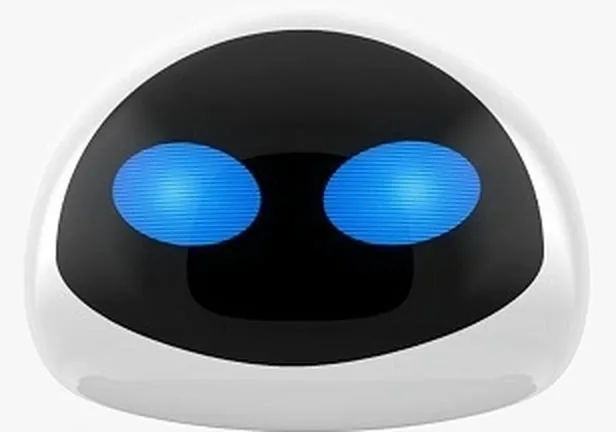
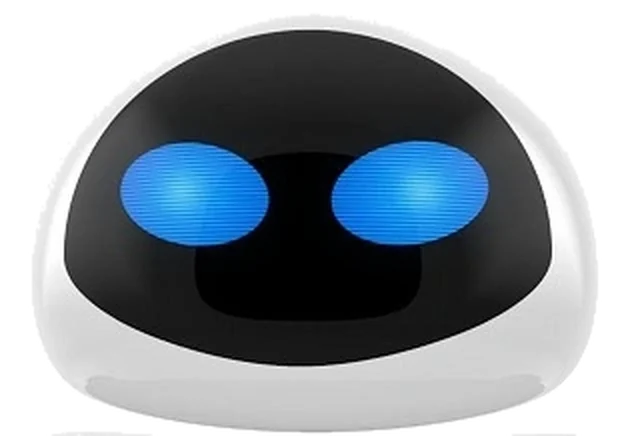
Довести /rca/agent/: лицо агента, стекло, плавный переход в матрицу
У картинки агента вырезан фон заливкой от краёв, теперь это webp с
альфой без белого прямоугольника. На первом экране она стоит справа
подложкой во всю высоту, на мобильном — стеклянным кружком.

Переход из золота в зелень растянут: фон страницы ниже 60 процентов
держит один цвет, а матрица начинается с него же и уходит в тёмное
за 520 пикселей, так что шва нет. Код проявляется вместе с фоном.

Карточки, чат, поля, форма и панель с агентом переведены на жидкое
стекло: полупрозрачный фон, размытие подложки, светлая грань.

Мелкие шрифты подняты: подписи 13 на 15, надзаголовки 13 на 14,
согласия 13 на 15, реплики в чате 15 на 16.

diff --git a/rca/agent/index.html b/rca/agent/index.html
@@ -36,6 +36,15 @@
   --grn-fg:#C6DCCD;
   --grn-line:rgba(143,207,166,.25);
   --gold:#F2E1A6;
+  --glass:rgba(255,255,255,.55);
+  --glass-2:rgba(255,255,255,.34);
+  --glass-br:rgba(255,255,255,.75);
+  --glass-sh:0 10px 30px rgba(120,95,30,.07);
+  --glass-in:inset 0 1px 0 rgba(255,255,255,.8);
+  --blur:blur(16px) saturate(165%);
+  --glassd:rgba(255,255,255,.07);
+  --glassd-br:rgba(255,255,255,.15);
+  --glassd-in:inset 0 1px 0 rgba(255,255,255,.12);
   --maxw:1120px;
   --pad:16px;
   --gap:56px;
@@ -50,7 +59,7 @@ body{
   color:var(--fg);font-family:var(--text);font-size:16px;line-height:1.55;
   overflow-x:hidden;-webkit-font-smoothing:antialiased;
   background-color:var(--bg);
-  background-image:linear-gradient(180deg,#FFFCF0 0%,#FAF1D6 10%,#FDF8EB 26%,#FBFAF3 48%,#F2F8EE 70%,#DFEEDD 88%,#CBE3CE 100%);
+  background-image:linear-gradient(180deg,#FFFCF0 0%,#FAF1D6 12%,#FDF8EB 30%,#F9FAF3 46%,#F6F8F2 60%,#F6F8F2 100%);
   background-repeat:no-repeat;
   background-size:100% 100%;
 }
@@ -62,19 +71,19 @@ a{color:inherit}
 h1,h2,.ttl,.btn,.num,.over{font-family:var(--disp);font-weight:400}
 h1{font-size:clamp(26px,7.6vw,48px);line-height:1.14;letter-spacing:-.01em}
 h2{font-size:clamp(22px,5.5vw,30px);line-height:1.2;margin-top:10px;max-width:20ch}
-.ttl{font-weight:500;font-size:18px;line-height:1.3}
-.over{font-size:13px;line-height:1.4;color:var(--over);letter-spacing:.02em}
+.ttl{font-weight:500;font-size:19px;line-height:1.3}
+.over{font-size:14px;line-height:1.4;color:var(--over);letter-spacing:.02em}
 p{max-width:68ch}
-.lead{font-size:clamp(16px,4.2vw,18px);line-height:1.45;color:var(--mut);margin-top:12px}
+.lead{font-size:clamp(17px,4.4vw,19px);line-height:1.45;color:var(--mut);margin-top:12px}
 .txt{margin-top:10px;color:var(--mut)}
-.small{font-size:13px;line-height:1.4;color:var(--mut)}
+.small{font-size:15px;line-height:1.45;color:var(--mut)}
 /* первый экран */
 .hero{position:relative;overflow:hidden;padding:20px 0 0}
 .blob{position:absolute;z-index:0;top:-70px;right:-120px;width:340px;height:340px;pointer-events:none}
 .hero .wrap{position:relative;z-index:1}
 .hero .btn{margin-top:20px}
 /* лицо агента: на мобильном кружок, на десктопе подложка */
-.heroface{display:block;width:76px;height:76px;border-radius:50%;object-fit:cover;object-position:50% 42%;background:#FFFDF3;margin-bottom:14px}
+.heroface{display:block;width:96px;height:96px;padding:12px;border-radius:50%;object-fit:contain;background:var(--glass);border:1px solid var(--glass-br);backdrop-filter:var(--blur);-webkit-backdrop-filter:var(--blur);box-shadow:var(--glass-sh),var(--glass-in);margin-bottom:14px}
 /* кнопки и поля */
 .btn{display:inline-flex;align-items:center;justify-content:center;min-height:52px;padding:0 28px;border:0;border-radius:50px;background:var(--acc);color:#FFFFFF;font-size:16px;font-weight:500;line-height:1.2;text-align:center;text-decoration:none;cursor:pointer;transition:background-color .15s}
 .btn:hover,.btn:focus-visible{background:var(--acc-2)}
@@ -83,28 +92,28 @@ p{max-width:68ch}
 .btn--gold{background:var(--gold);color:#12301F}
 .btn--gold:hover,.btn--gold:focus-visible{background:#FFEFBE}
 .btn--gold[disabled]{background:#3C5A4A;color:#8FA898}
-.fld{width:100%;height:52px;padding:0 20px;border:1px solid var(--line);border-radius:50px;background:#FFFFFF;color:var(--fg);font-family:var(--text);font-size:16px;line-height:1.4}
+.fld{width:100%;height:54px;padding:0 20px;border:1px solid var(--glass-br);border-radius:50px;background:rgba(255,255,255,.82);backdrop-filter:var(--blur);-webkit-backdrop-filter:var(--blur);color:var(--fg);font-family:var(--text);font-size:16px;line-height:1.4}
 .fld::placeholder{color:var(--hint)}
 .fld:focus{border-color:var(--acc);outline:2px solid var(--acc-2);outline-offset:2px}
 .fld.bad{border-color:var(--err)}
-.card{border-radius:30px;background:var(--card);padding:24px}
-.card--plain{background:#FFFFFF;border:1px solid var(--line)}
+.card{border-radius:30px;background:var(--glass);border:1px solid var(--glass-br);backdrop-filter:var(--blur);-webkit-backdrop-filter:var(--blur);box-shadow:var(--glass-sh),var(--glass-in);padding:24px}
+.card--plain{background:var(--glass-2)}
 .cards--3{display:grid;gap:12px;margin-top:24px}
 /* демонстрация: расшифровка разговора */
-.chat{margin-top:24px;max-width:560px;border:1px solid var(--line);border-radius:26px;background:#FFFFFF;padding:16px;display:grid;gap:10px}
-.msg{max-width:90%;padding:10px 14px;font-size:15px;line-height:1.45}
-.msg--me{justify-self:end;background:var(--chip);color:var(--chip-fg);border-radius:16px 16px 6px 16px}
-.msg--bot{justify-self:start;background:#F4F4F6;color:var(--fg);border-radius:16px 16px 16px 6px}
+.chat{margin-top:24px;max-width:560px;border:1px solid var(--glass-br);border-radius:26px;background:var(--glass);backdrop-filter:var(--blur);-webkit-backdrop-filter:var(--blur);box-shadow:var(--glass-sh),var(--glass-in);padding:16px;display:grid;gap:10px}
+.msg{max-width:90%;padding:11px 15px;font-size:16px;line-height:1.45}
+.msg--me{justify-self:end;background:rgba(122,74,224,.14);color:var(--chip-fg);border-radius:16px 16px 6px 16px}
+.msg--bot{justify-self:start;background:rgba(255,255,255,.62);color:var(--fg);border-radius:16px 16px 16px 6px}
 .chat-cap{margin-top:10px}
 /* карточки умений */
-.skill{border-radius:24px;background:var(--card);padding:20px}
-.skill .txt{margin-top:6px;font-size:15px}
+.skill{border-radius:24px;background:var(--glass);border:1px solid var(--glass-br);backdrop-filter:var(--blur);-webkit-backdrop-filter:var(--blur);box-shadow:var(--glass-sh),var(--glass-in);padding:20px}
+.skill .txt{margin-top:6px;font-size:16px}
 /* колонки про цену */
-.col{border-radius:24px;padding:20px}
-.col--in{background:var(--card)}
-.col--out{background:#FFFFFF;border:1px solid var(--line)}
-.col--alt{background:var(--chip)}
-.col h3{font-family:var(--disp);font-weight:500;font-size:17px;line-height:1.3}
+.col{border-radius:24px;padding:20px;background:var(--glass);border:1px solid var(--glass-br);backdrop-filter:var(--blur);-webkit-backdrop-filter:var(--blur);box-shadow:var(--glass-sh),var(--glass-in)}
+.col--in{background:rgba(240,235,254,.58)}
+.col--out{background:rgba(255,255,255,.62)}
+.col--alt{background:rgba(238,233,255,.55)}
+.col h3{font-family:var(--disp);font-weight:500;font-size:18px;line-height:1.3}
 /* списки */
 .mini{list-style:none;margin-top:12px;display:grid;gap:8px}
 .mini li{position:relative;padding-left:18px;color:var(--mut)}
@@ -115,7 +124,7 @@ p{max-width:68ch}
 .step:last-child{border-bottom:1px solid var(--line)}
 .step-h{display:flex;gap:12px;align-items:baseline}
 /* тёмный блок */
-.dark{border-radius:30px;background:var(--dark);color:#FFFFFF;padding:28px 24px}
+.dark{border-radius:30px;background:var(--dark);border:1px solid rgba(255,255,255,.10);color:#FFFFFF;padding:28px 24px}
 .dark h2{color:#FFFFFF}
 .dark .over{color:var(--off)}
 .dark p{color:var(--off);margin-top:14px}
@@ -125,7 +134,7 @@ p{max-width:68ch}
 .who-n{font-family:var(--disp);font-weight:500;font-size:18px;line-height:1.3}
 .who-r{margin-top:4px}
 /* матрица: последние экраны */
-.matrix{position:relative;overflow:hidden;margin-top:var(--gap);padding:56px 0 0;background:linear-gradient(180deg,#0D3323 0%,#092919 55%,#07200F 100%);color:#EAF3EC}
+.matrix{position:relative;overflow:hidden;margin-top:0;padding:300px 0 0;background:linear-gradient(180deg,#F6F8F2 0px,#EAF3E7 70px,#C6DFCA 140px,#8FBE9E 205px,#53906D 265px,#265F41 325px,#103A25 395px,#07200F 520px);color:#EAF3EC}
 .matrix>.sec{position:relative;z-index:1;margin-top:var(--gap)}
 .matrix>.sec:first-of-type{margin-top:0}
 .matrix .over{color:#8FCFA6}
@@ -135,40 +144,40 @@ p{max-width:68ch}
 .matrix .mini li::before{background:#5FE39A}
 .matrix .step{border-top-color:var(--grn-line)}
 .matrix .step:last-child{border-bottom-color:var(--grn-line)}
-.matrix .card--plain{background:rgba(255,255,255,.05);border-color:var(--grn-line)}
-.matrix .dark{background:rgba(255,255,255,.06)}
+.matrix .card--plain{background:var(--glassd);border:1px solid var(--glassd-br);backdrop-filter:var(--blur);-webkit-backdrop-filter:var(--blur);box-shadow:var(--glassd-in)}
+.matrix .dark{background:var(--glassd);border-color:var(--glassd-br);backdrop-filter:var(--blur);-webkit-backdrop-filter:var(--blur);box-shadow:var(--glassd-in)}
 .matrix .dark p{color:var(--grn-fg)}
 .matrix .check a{color:var(--gold)}
 .matrix .who-r{color:var(--grn-fg)}
-.rain{position:absolute;inset:0;z-index:0;pointer-events:none;overflow:hidden;font-family:var(--mono);font-size:14px;color:#4FE08C;opacity:.17}
+.rain{position:absolute;inset:0;z-index:0;pointer-events:none;overflow:hidden;font-family:var(--mono);font-size:15px;color:#4FE08C;opacity:.18;-webkit-mask-image:linear-gradient(180deg,rgba(0,0,0,0) 0px,rgba(0,0,0,0) 230px,#000 450px);mask-image:linear-gradient(180deg,rgba(0,0,0,0) 0px,rgba(0,0,0,0) 230px,#000 450px)}
 .rain b{position:absolute;top:0;height:100%;font-weight:400;writing-mode:vertical-rl;text-orientation:upright;letter-spacing:.3em;animation-name:rain;animation-timing-function:linear;animation-iteration-count:infinite}
 @keyframes rain{from{transform:translateY(-100%)}to{transform:translateY(100%)}}
 /* зелёная панель формы */
-.green{position:relative;border-radius:30px;background:rgba(4,20,11,.78);color:#FFFFFF;padding:28px 24px}
+.green{position:relative;border-radius:30px;background:rgba(6,28,17,.55);border:1px solid var(--glassd-br);backdrop-filter:blur(20px) saturate(140%);-webkit-backdrop-filter:blur(20px) saturate(140%);box-shadow:var(--glassd-in);color:#FFFFFF;padding:28px 24px}
 .green h2,.green .ttl{color:#FFFFFF}
 .green .over{color:#8FCFA6}
 .green p,.green .small,.green .under{color:var(--grn-fg)}
 /* картинка-подложка у формы */
 .formgrid{display:grid;gap:24px;margin-top:24px}
-.agentpic{position:relative;order:2;border-radius:26px;background:radial-gradient(ellipse at 50% 46%,#FFFFFF 0%,#FFFDF3 44%,#F0E3C0 100%);display:flex;align-items:center;justify-content:center;padding:20px;min-height:220px}
-.agentpic img{display:block;width:100%;max-width:308px;height:auto;-webkit-mask-image:radial-gradient(ellipse at 50% 46%,#000 70%,rgba(0,0,0,0) 100%);mask-image:radial-gradient(ellipse at 50% 46%,#000 70%,rgba(0,0,0,0) 100%)}
+.agentpic{position:relative;order:2;border-radius:26px;background:linear-gradient(150deg,rgba(255,255,255,.20),rgba(255,255,255,.05));border:1px solid var(--glassd-br);backdrop-filter:blur(18px) saturate(140%);-webkit-backdrop-filter:blur(18px) saturate(140%);box-shadow:var(--glassd-in);display:flex;align-items:center;justify-content:center;padding:20px;min-height:220px}
+.agentpic img{display:block;width:100%;max-width:308px;height:auto}
 /* форма */
 .form{margin-top:20px;max-width:520px}
 .fields{display:grid;gap:12px}
 .checks{margin-top:14px;display:grid;gap:2px}
-.check{position:relative;display:flex;align-items:center;gap:10px;min-height:44px;font-size:13px;line-height:1.4;color:var(--mut);cursor:pointer}
+.check{position:relative;display:flex;align-items:center;gap:10px;min-height:44px;font-size:15px;line-height:1.4;color:var(--mut);cursor:pointer}
 .check input{position:absolute;left:0;opacity:0;width:22px;height:22px;margin:0;cursor:pointer}
-.bx{flex:0 0 auto;width:22px;height:22px;border:1px solid var(--line);border-radius:6px;background:#FFFFFF;position:relative}
+.bx{flex:0 0 auto;width:24px;height:24px;border:1px solid var(--glass-br);border-radius:7px;background:rgba(255,255,255,.82);position:relative}
 .check input:checked+.bx{background:var(--acc);border-color:var(--acc)}
-.check input:checked+.bx::after{content:"";position:absolute;left:7px;top:3px;width:6px;height:11px;border:solid #FFFFFF;border-width:0 2px 2px 0;transform:rotate(45deg)}
+.check input:checked+.bx::after{content:"";position:absolute;left:8px;top:4px;width:6px;height:11px;border:solid #FFFFFF;border-width:0 2px 2px 0;transform:rotate(45deg)}
 .check input:focus-visible+.bx{outline:2px solid var(--acc-2);outline-offset:2px}
 .check a{color:var(--acc)}
 .form .btn{margin-top:16px}
 .trap{position:absolute;left:-9999px;width:1px;height:1px;opacity:0}
-.note{margin-top:12px;font-size:13px;line-height:1.4;color:var(--mut)}
+.note{margin-top:12px;font-size:15px;line-height:1.4;color:var(--mut)}
 .note:empty{margin-top:0}
 .note.err{color:#FF8A8A}
-.under{margin-top:10px;font-size:13px;line-height:1.4;color:var(--mut)}
+.under{margin-top:10px;font-size:15px;line-height:1.4;color:var(--mut)}
 .done .ttl{margin-bottom:10px}
 .done .btn{margin-top:16px}
 /* подвал */
@@ -194,10 +203,11 @@ footer a{color:#9CD9B4}
   .blob{width:520px;height:520px;top:-120px;right:-120px}
   .hero{padding:48px 0 0}
   .hero .wrap{min-height:420px}
-  .heroface{position:absolute;z-index:0;top:-20px;right:-40px;width:460px;height:auto;border-radius:0;margin:0;background:none;-webkit-mask-image:radial-gradient(ellipse at 50% 46%,#000 62%,rgba(0,0,0,0) 100%);mask-image:radial-gradient(ellipse at 50% 46%,#000 62%,rgba(0,0,0,0) 100%)}
-  h1,.hero .lead,.hero .btn,.hero .chat,.hero .chat-cap{max-width:640px}
+  .heroface{position:absolute;z-index:0;top:50%;right:-40px;width:min(38vw,470px);height:auto;padding:0;border:0;border-radius:0;margin:0;background:none;box-shadow:none;backdrop-filter:none;-webkit-backdrop-filter:none;transform:translateY(-50%)}
+  h1,.hero .lead{max-width:560px}
+  .hero .chat,.hero .chat-cap{max-width:440px}
   .step{grid-template-columns:220px 1fr;gap:24px;padding:22px 0}
-  .matrix{padding:96px 0 0}
+  .matrix{padding:380px 0 0}
   .formgrid{grid-template-columns:1fr 1fr;gap:40px;align-items:center}
   .agentpic{min-height:360px;padding:32px}
   .agentpic img{max-width:100%}
@@ -205,7 +215,8 @@ footer a{color:#9CD9B4}
 }
 @media (min-width:1120px){
   .hero{padding:64px 0 0}
-  .heroface{width:520px;right:-20px}
+  .heroface{width:min(46vw,620px);right:-56px}
+  .hero .chat,.hero .chat-cap{max-width:520px}
 }
 </style>
 </head>
